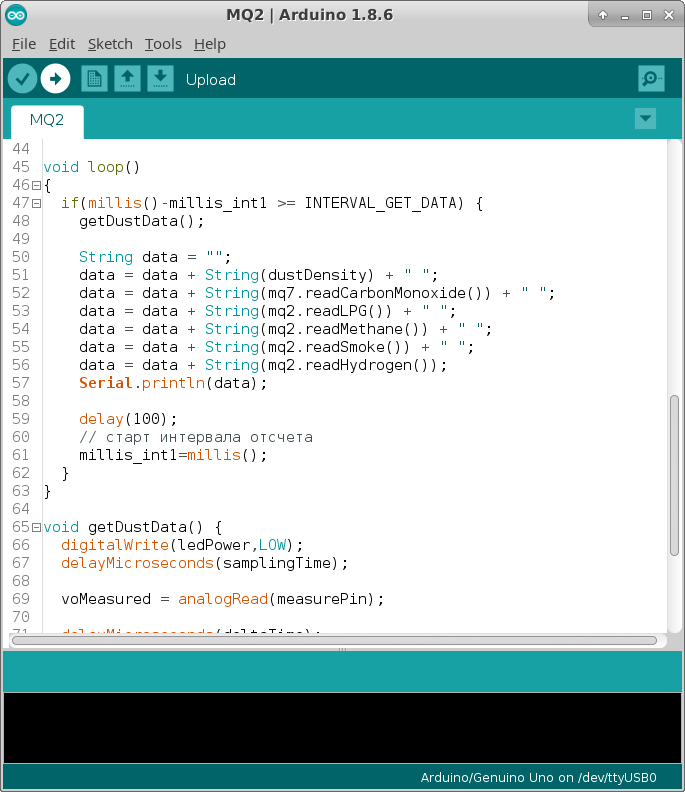
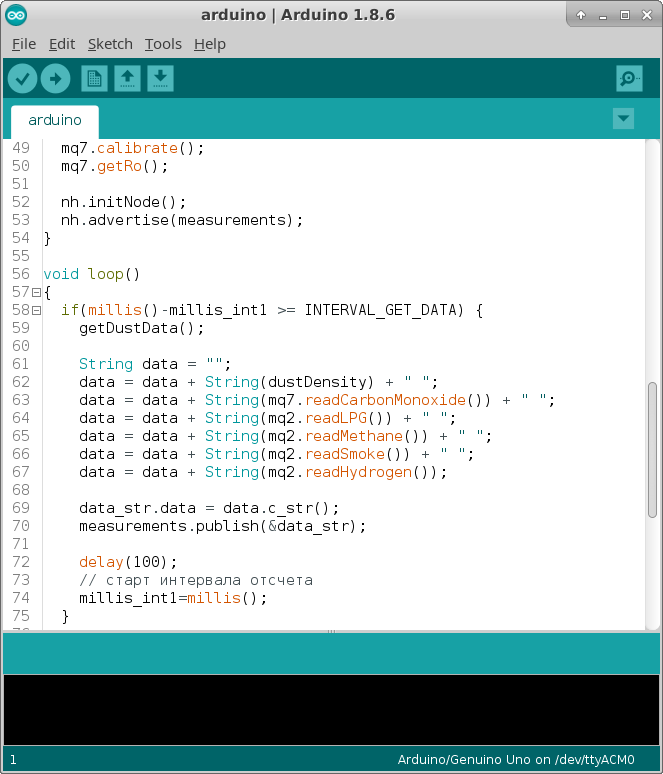
Rewrite connect sensor and passing dynamic parameters to gen 3

diff --git a/docs/examples/passing_dynamic_parameters.rst b/docs/examples/passing_dynamic_parameters.rst
@@ -1,46 +1,65 @@
 Passing Dynamic Parameters
 ==========================
 
-In `previous <A_Wink_from_Arduino.html>`_ example we discussed how to create a simple CPS with Arduino. Our CPS is able to do only one task: to blink a led. Now let's expand the example and teach our board to blink blue or red led depending on objective parameters.
+In `previous <connect_simple_cps.html>`_ example we discussed how to create a simple CPS with Arduino. Our first CPS is able to do only one task: to blink a led. We suggest you to get through the first lesson. Now let's expand the example and teach our board to blink blue or red led depending on objective parameter.
 
 .. note::
 
   The source code of this lesson is `here <https://github.com/airalab/robonomics_tutorials/tree/master/arduino_with_args>`_.
 
-Arduino 
+Arduino
 -------
 
-The only difference in Arduino source code is in ``check_input()`` function:
+The only difference in Arduino source code is instead of subscribing to one topic now we subscribe to ``/blink_red`` and ``/blink_blue`` topics
 
 .. code-block:: c
 
-  void check_input(String input) {
-    // Turn red led on
-    if (cmd("red")) {
-      blink(13, 500);
-      blink(13, 500);
-      blink(13, 500);
+  #include <ros.h>
+  #include <std_msgs/Empty.h>
 
-    // Turn blue led on
-    } else if(cmd("blue")) {
-      blink(12, 500);
-      blink(12, 500);
-      blink(12, 500);
-      
-    // Call reboot
-    } else if (cmd("reboot")) {
-      Serial.println("Rebooting...");
-      delay(200);
-      reboot();
-    } 
+  ros::NodeHandle nh;
 
-    stringComplete = false;
-    inputString = "";
+  void blink(int led, int mil) {
+
+    digitalWrite(led, HIGH);
+    delay(mil);
+    digitalWrite(led, LOW);
+    delay(mil);
+
   }
 
-We've already created a basement for multiple commands input. So all we have to do is replace ``blink`` command with ``red`` and ``blue``. 
+  void blinkRedCb(const std_msgs::Empty& msg) {
+    blink(13, 500);
+    blink(13, 500);
+    blink(13, 500);
+  }
 
-And here is the diagram of all connections:
+  void blinkBlueCb(const std_msgs::Empty& msg) {
+    blink(12, 500);
+    blink(12, 500);
+    blink(12, 500);
+  }
+
+  ros::Subscriber<std_msgs::Empty> subRed("blink_red", &blinkRedCb);
+  ros::Subscriber<std_msgs::Empty> subBlue("blink_blue", &blinkBlueCb);
+
+  void setup()
+  {
+    pinMode(13, OUTPUT);
+    pinMode(12, OUTPUT);
+
+    nh.initNode();
+    nh.subscribe(subRed);
+    nh.subscribe(subBlue);
+  }
+
+  void loop()
+  {
+    nh.spinOnce();
+    delay(1);
+  }
+
+Here is the diagram of all connections:
 
 .. image:: ../img/6.png
   :alt: Arduino schema
@@ -54,68 +73,46 @@ We can pass arguments via objective which points to rosbag file. Have a look at 
 
 .. code-block:: python
 
-  def blink(data):
-      ser = serial.Serial('/dev/ttyUSB0', 9600)
+  ...
 
+  def blink(self, data):
       if data.data == "blue":
           rospy.loginfo("Blinking blue...")
-          ser.write(b"blue\n")
+          self.blink_blue.publish(Empty())
 
       if data.data == "red":
           rospy.loginfo("Blinking red...")
-          ser.write(b"red\n")
-      
-      ser.flush()
-      ser.close()
+          self.blink_red.publish(Empty())
 
-      rospy.wait_for_service("liability/finish")
-      fin = rospy.ServiceProxy("liability/finish", Empty)
-      rospy.loginfo("finishing...")
-      fin()
+      rospy.wait_for_service('/liability/finish')
+      fin = rospy.ServiceProxy('/liability/finish', FinishLiability)
+      fin(FinishLiabilityRequest(address=self.liability, success=True))
+      rospy.loginfo("Finished")
 
-Now ``/blink`` topic has a ``String`` type. You can find prepared rosbags in ``rosbag`` folder. 
+  ...
+
+Now ``/blink`` topic has a ``String`` type. You can find prepared rosbags in ``rosbag`` folder.
 
 AIRA
 ----
 
-Connect to AIRA client via SSH as described `here <Connecting_via_SSH.md>`_. You can either upload code from your host OS or make a clone from Github.
+Connect to AIRA client via SSH as described `here <Connecting_via_SSH.md>`_. You can either upload code from your host OS or make a clone from Github. Do not forget to add ``COM1`` port in settings
 
 To build a ros package run the following commands::
 
-  $ mkdir -p ws/src && cd ws/src
-  $ cp -r path/to/arduino_blink . 
-  $ catkin_init_workspace && cd .. && catkin_make 
-
-And launch
-
-.. code-block:: bash
-
-  $ source devel/setup.bash
-  $ rosrun arduino_blink blink.py
-
+  $ nix build -f release.nix
+  $ . result/setup.zsh
+  $ rosrun arduino_with_args blink.py
 
 Also we need to add rosbag files to IPFS::
 
   $ ipfs add rosbag/blink_blue.bag
   $ ipfs add rosbag/blink_red.bag
 
-In case we want to light the blue led, create the following a demand and an offer messages::
+.. note::
 
-  $ rostopic pub /lighthouse/infochan/signing/ask robonomics_lighthouse/Ask "model: 'QmSuajKuDiL8A5vhbsQJnVVNwhhC5ni6shSZxNXVWvpikt' \
-  objective: 'QmUq7d4jATFnbDgtkv83d3VW9jRqqCRkctZdGUBZE5wGN2' \
-  token: '0xbD949595eE52346c225a19724084cE517B2cB735' \
-  cost: 1 \
-  validator: '0x0000000000000000000000000000000000000000' \
-  validatorFee: 0 \
-  deadline: 6498193"
+  Before the next step you should approve XRT tokens on the Factory.
 
-  $ rostopic pub /lighthouse/infochan/signing/bid robonomics_lighthouse/Bid "model: 'QmSuajKuDiL8A5vhbsQJnVVNwhhC5ni6shSZxNXVWvpikt'
-  objective: 'QmUq7d4jATFnbDgtkv83d3VW9jRqqCRkctZdGUBZE5wGN2'
-  token: '0xbD949595eE52346c225a19724084cE517B2cB735'
-  cost: 1
-  lighthouseFee: 0
-  deadline: 6498193"
-
-To light a red one, change ``objective`` to ``QmcoE93MrvAdC789vt6G27WypSimhZxu5ZT2aKy8uviBDM`` in the previous messages.
+The last step is to build Dapp and launch. Take a look at the previous `lesson <connect_simple_cps.html>`_. To make Arduino blink the blue led send blue demand and blue offer messages. For the red one send corresponding messages.
 
 That's it! Now you are able to pass dynamic parameters to your cyber-physical system agent!

diff --git a/docs/examples/connect_sensor.rst b/docs/examples/connect_sensor.rst
@@ -1,13 +1,13 @@
 Connect an Air Pollution Sensor
 ===============================
 
-In this lesson you are going to learn how to connect your sensor to the network and make it publish data. You will see how it is easy to become a member of global sensor network!
+In this lesson you are going to learn how to connect your sensor to the network and make it publish data. You will see how it is easy to become a member of a global sensor network!
 
 .. note::
 
-    Source is located here https://github.com/airalab/robonomics_tutorials, ``sensor_city`` folder
+    Source code is located `here <https://github.com/airalab/robonomics_tutorials/tree/master/sensor_city>`_
 
-In this section we are not going to create a liability contract. Instead we will teach Arduino with sensors publish the data by a request. All the measurements will be published as a Result message
+In this section we are not going to create a liability contract. Instead we will teach Arduino with sensors to publish the data by a request. All measurements will be published as a Result message
 
 Arduino
 -------
@@ -55,8 +55,8 @@ Finally launch the image and run these commands:
 
     $ git clone https://github.com/airalab/robonomics_tutorials
     $ cd robonomics_tutorials/sensor_city
-    $ ./builder.sh
-    $ source ws/install/setup.zsh
+    $ nix build -f release.nix
+    $ . result/setup.zsh
     $ roslaunch sensor_city publish_data.launch
 
 .. hint::
